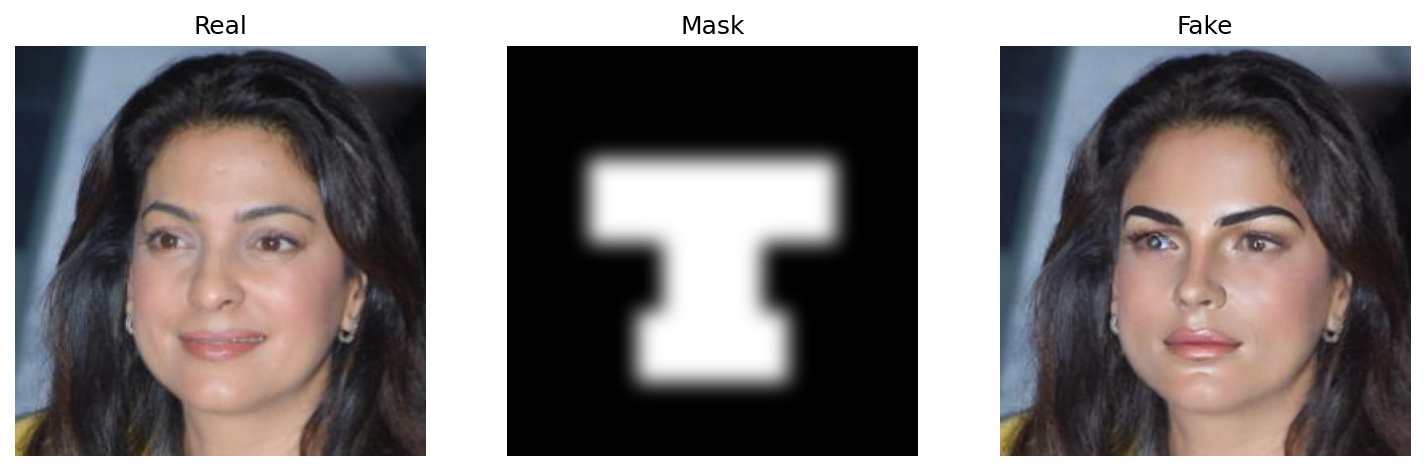
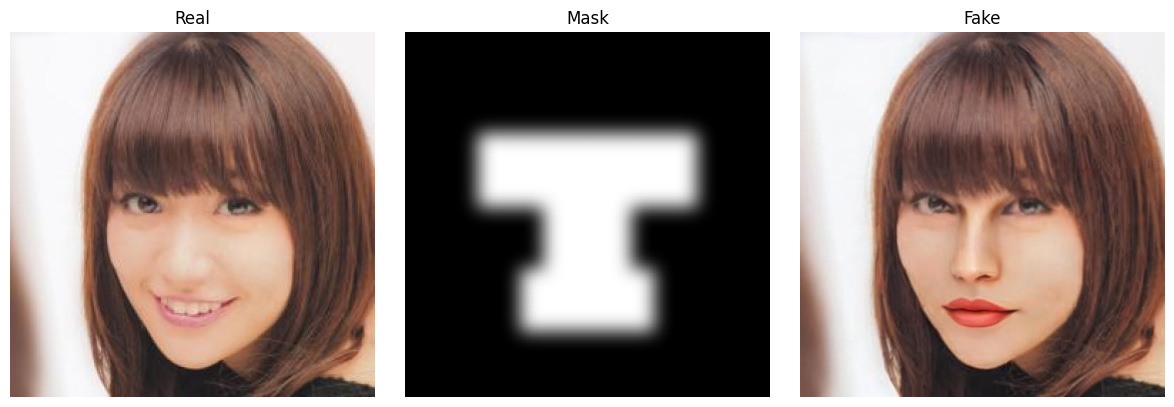
update outputs

diff --git a/src/deepfakes.py b/src/deepfakes.py
@@ -114,7 +114,7 @@ def generate_deepfakes(real_dir, fake_dir, num_deepfakes=6000, device=None):
     print("\n[Deepfakes] Concluído.")
 
 
-def preview_deepfakes(real_dir, fake_dir, num_preview=3):
+def preview_deepfakes(real_dir, fake_dir, num_preview=4):
     real_dir = Path(real_dir)
     fake_dir = Path(fake_dir)
 

diff --git a/src/main.py b/src/main.py
@@ -11,8 +11,8 @@ FAKE_DIR = "../data/fake"
 
 def main():
     RUN_DEEPFAKES = False
-    PREVIEW_DEEPFAKES = False
-    RUN_TRAINING = True
+    PREVIEW_DEEPFAKES = True
+    RUN_TRAINING = False
     RUN_XAI = True
 
     if RUN_DEEPFAKES:
